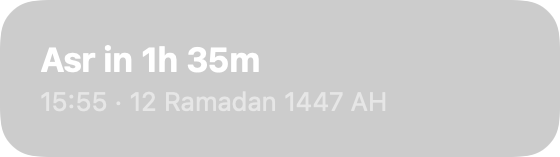
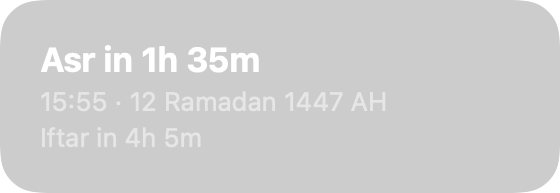
docs: show Ramadan mode in the screenshots
The sample date, 1 March 2026, falls in Ramadan, where the app shows the
iftar countdown by default and Umm al-Qura's Isha is 120 minutes after
Maghrib. CardView now defaults Ramadan mode on, as the app does, so the
rendered images match what users see. The app passes the setting
explicitly, so it's unaffected.

diff --git a/Sources/WidgetUI/CardView.swift b/Sources/WidgetUI/CardView.swift
@@ -20,7 +20,7 @@ public struct CardView: View {
     @Environment(\.accessibilityReduceTransparency) private var reduceTransparency
     @Environment(\.colorSchemeContrast) private var contrast
 
-    public init(_ content: Content, style: CardStyle = .full, textSize: CardTextSize = .standard, showSunnahTimes: Bool = false, discouragedTimes: DiscouragedTimes? = nil, ramadanMode: Bool = false, imsakMinutes: Int = 0) {
+    public init(_ content: Content, style: CardStyle = .full, textSize: CardTextSize = .standard, showSunnahTimes: Bool = false, discouragedTimes: DiscouragedTimes? = nil, ramadanMode: Bool = true, imsakMinutes: Int = 0) {
         self.content = content
         self.style = style
         self.showSunnahTimes = showSunnahTimes
